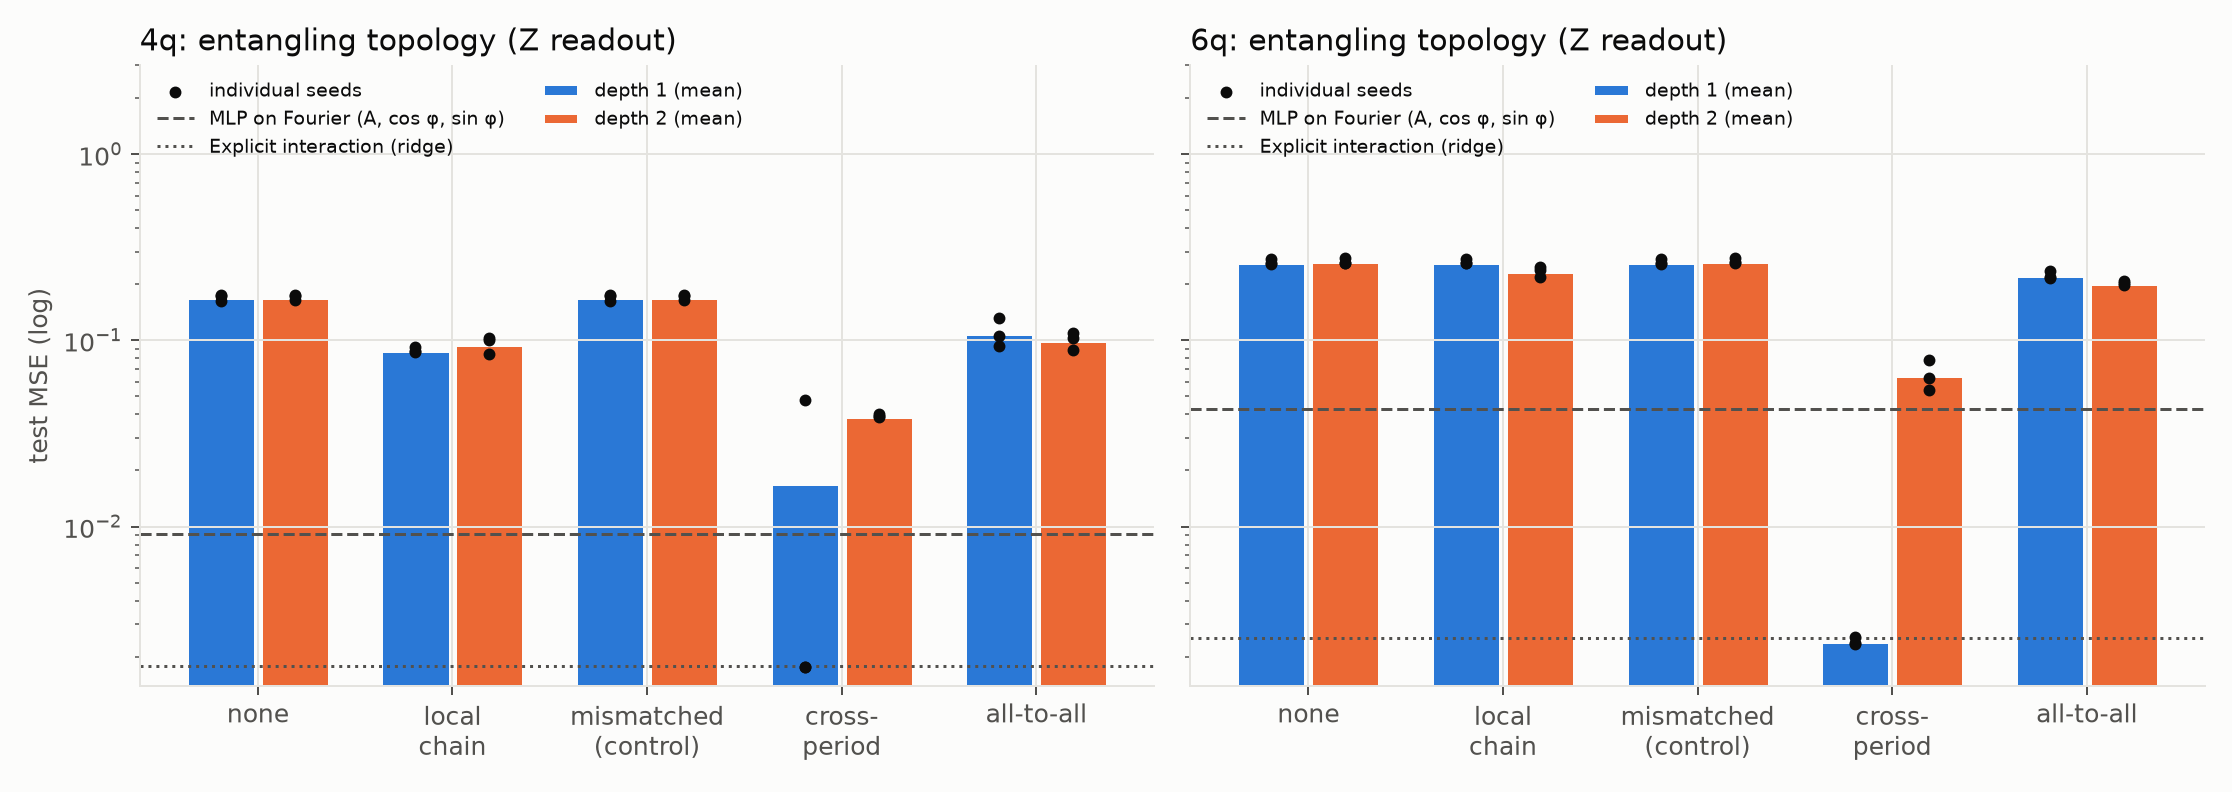
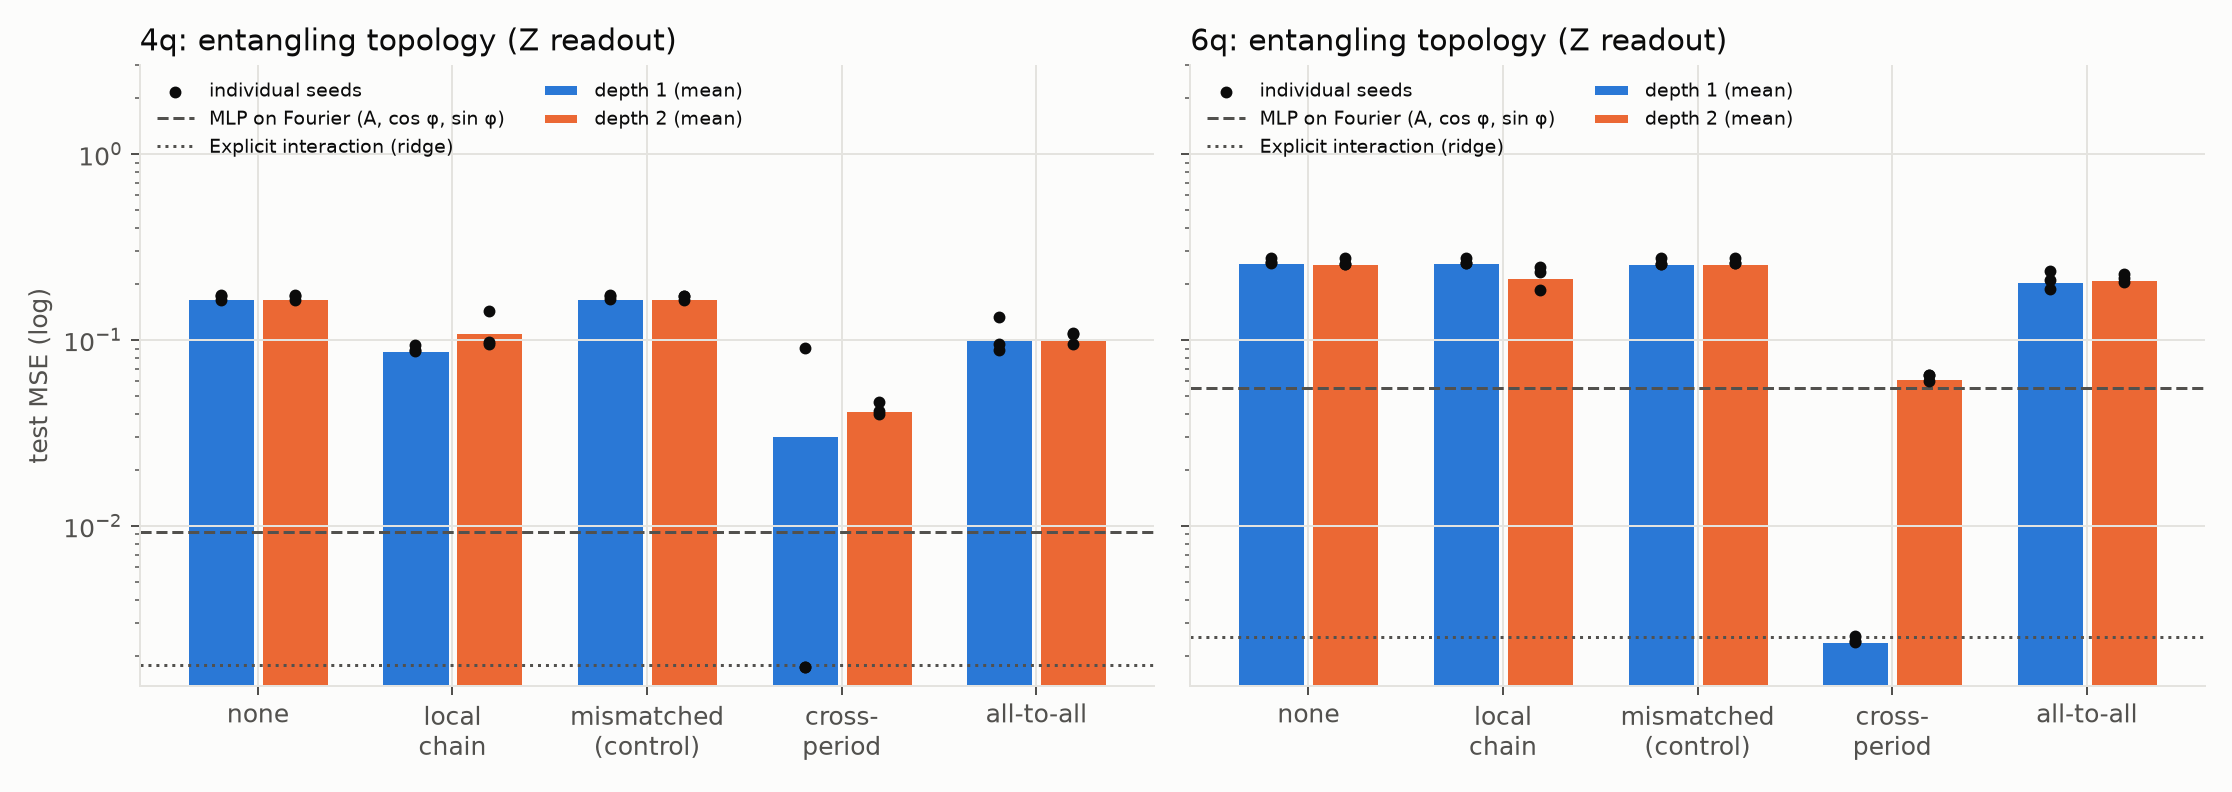
Module A: rerun S1/S2 on the shared encoder, update results and findings

diff --git a/docs/results_module_a.md b/docs/results_module_a.md
@@ -9,20 +9,20 @@ Target `y = A1·A2·cos(φ1 − φ2) + η`. Test MSE, mean ± std over 3 seeds; 
 | model | qubits | 2q gates | meas. settings | n=64 | n=256 | n=1024 | n=4096 |
 |---|---|---|---|---|---|---|---|
 | Fixed hybrid circuit + ridge | 2 | 0 | 9 | 0.0008 ± 0.0000 | 0.0006 ± 0.0000 | 0.0006 ± 0.0000 | 0.0006 ± 0.0000 |
-| Explicit interaction (ridge) | – | – | – | 0.0007 ± 0.0001 | 0.0006 ± 0.0000 | 0.0006 ± 0.0000 | 0.0006 ± 0.0000 |
-| Quantum phase circuit + classical A·A products / all_to_all / D=2 / z | 2 | 2 | 1 | 0.0007 ± 0.0001 | 0.0006 ± 0.0000 | 0.0006 ± 0.0000 | 0.0006 ± 0.0000 |
-| Quantum hybrid / none / D=1 / pauli2 | 2 | 0 | 9 | 0.0008 ± 0.0000 | 0.0006 ± 0.0000 | 0.0006 ± 0.0000 | 0.0006 ± 0.0000 |
-| MLP on Fourier (A, cos φ, sin φ) | – | – | – | 0.0223 ± 0.0037 | 0.0033 ± 0.0001 | 0.0019 ± 0.0006 | 0.0007 ± 0.0000 |
-| MLP on raw (A, φ) | – | – | – | 0.0149 ± 0.0028 | 0.0051 ± 0.0005 | 0.0013 ± 0.0003 | 0.0007 ± 0.0001 |
-| MLP + gated quantum fusion | 2 | 2 | 1 | 0.0189 ± 0.0025 | 0.0037 ± 0.0004 | 0.0014 ± 0.0001 | 0.0008 ± 0.0000 |
-| Quantum angle / all_to_all / D=2 / z | 4 | 12 | 1 | 0.0067 ± 0.0063 | 0.0012 ± 0.0002 | 0.0012 ± 0.0001 | 0.0008 ± 0.0002 |
-| Quantum hybrid / all_to_all / D=1 / z | 2 | 1 | 1 | 0.0328 ± 0.0185 | 0.0006 ± 0.0000 | 0.0006 ± 0.0000 | 0.0151 ± 0.0206 |
-| Quantum hybrid / all_to_all / D=2 / z | 2 | 2 | 1 | 0.0352 ± 0.0135 | 0.0204 ± 0.0003 | 0.0191 ± 0.0014 | 0.0185 ± 0.0007 |
-| Quantum hybrid / none / D=2 / pauli2 | 2 | 0 | 9 | 0.0328 ± 0.0007 | 0.0265 ± 0.0012 | 0.0241 ± 0.0005 | 0.0236 ± 0.0008 |
-| Quantum angle / all_to_all / D=1 / z | 4 | 6 | 1 | 0.0330 ± 0.0222 | 0.0157 ± 0.0200 | 0.0016 ± 0.0001 | 0.0311 ± 0.0209 |
-| Quantum phase circuit + classical A·A products / none / D=2 / pauli2 | 2 | 0 | 9 | 0.0650 ± 0.0030 | 0.0479 ± 0.0028 | 0.0469 ± 0.0007 | 0.0470 ± 0.0015 |
-| Quantum angle / none / D=2 / pauli2 | 4 | 0 | 21 | 0.0798 ± 0.0083 | 0.0631 ± 0.0014 | 0.0568 ± 0.0013 | 0.0563 ± 0.0026 |
-| Param-matched MLP | – | – | – | 0.0785 ± 0.0088 | 0.0609 ± 0.0007 | 0.0614 ± 0.0019 | 0.0604 ± 0.0021 |
+| Explicit interaction (ridge) | – | – | – | 0.0007 ± 0.0000 | 0.0006 ± 0.0000 | 0.0006 ± 0.0000 | 0.0006 ± 0.0000 |
+| Quantum phase circuit + classical A·A products / all_to_all / D=2 / z | 2 | 2 | 1 | 0.0036 ± 0.0026 | 0.0006 ± 0.0000 | 0.0021 ± 0.0022 | 0.0006 ± 0.0000 |
+| Quantum hybrid / all_to_all / D=1 / z | 2 | 1 | 1 | 0.0155 ± 0.0209 | 0.0284 ± 0.0197 | 0.0158 ± 0.0215 | 0.0006 ± 0.0000 |
+| Quantum hybrid / none / D=1 / pauli2 | 2 | 0 | 9 | 0.0009 ± 0.0001 | 0.0006 ± 0.0000 | 0.0006 ± 0.0000 | 0.0006 ± 0.0000 |
+| MLP on raw (A, φ) | – | – | – | 0.0147 ± 0.0037 | 0.0048 ± 0.0001 | 0.0019 ± 0.0007 | 0.0006 ± 0.0000 |
+| MLP on Fourier (A, cos φ, sin φ) | – | – | – | 0.0172 ± 0.0018 | 0.0037 ± 0.0002 | 0.0014 ± 0.0001 | 0.0006 ± 0.0000 |
+| MLP + gated quantum fusion | 2 | 2 | 1 | 0.0219 ± 0.0038 | 0.0035 ± 0.0005 | 0.0014 ± 0.0001 | 0.0008 ± 0.0000 |
+| Quantum angle / all_to_all / D=2 / z | 4 | 12 | 1 | 0.0055 ± 0.0012 | 0.0022 ± 0.0012 | 0.0015 ± 0.0005 | 0.0010 ± 0.0001 |
+| Quantum hybrid / all_to_all / D=2 / z | 2 | 2 | 1 | 0.0464 ± 0.0042 | 0.0229 ± 0.0013 | 0.0249 ± 0.0024 | 0.0202 ± 0.0015 |
+| Quantum hybrid / none / D=2 / pauli2 | 2 | 0 | 9 | 0.0426 ± 0.0067 | 0.0336 ± 0.0015 | 0.0294 ± 0.0005 | 0.0301 ± 0.0005 |
+| Quantum angle / all_to_all / D=1 / z | 4 | 6 | 1 | 0.0358 ± 0.0224 | 0.0171 ± 0.0199 | 0.0171 ± 0.0201 | 0.0325 ± 0.0209 |
+| Quantum phase circuit + classical A·A products / none / D=2 / pauli2 | 2 | 0 | 9 | 0.0626 ± 0.0050 | 0.0520 ± 0.0038 | 0.0461 ± 0.0013 | 0.0473 ± 0.0024 |
+| Quantum angle / none / D=2 / pauli2 | 4 | 0 | 21 | 0.0925 ± 0.0106 | 0.0640 ± 0.0023 | 0.0576 ± 0.0017 | 0.0563 ± 0.0017 |
+| Param-matched MLP | – | – | – | 0.0796 ± 0.0060 | 0.0606 ± 0.0003 | 0.0618 ± 0.0023 | 0.0611 ± 0.0034 |
 
 ![S1](figures/s1_encoding.png)
 
@@ -30,15 +30,15 @@ Target `y = A1·A2·cos(φ1 − φ2) + η`. Test MSE, mean ± std over 3 seeds; 
 
 | model | exact | 100 shots | 1000 shots | 10000 shots |
 |---|---|---|---|---|
-| Quantum angle / all_to_all / D=1 / z | 0.0311 | 0.0370 | 0.0298 | 0.0286 |
-| Quantum angle / all_to_all / D=2 / z | 0.0008 | 0.0252 | 0.0033 | 0.0011 |
-| Quantum angle / none / D=2 / pauli2 | 0.0563 | 0.0569 | 0.0537 | 0.0531 |
-| Quantum hybrid / all_to_all / D=1 / z | 0.0151 | 0.0309 | 0.0163 | 0.0150 |
-| Quantum hybrid / all_to_all / D=2 / z | 0.0185 | 0.0249 | 0.0192 | 0.0186 |
-| Quantum hybrid / none / D=1 / pauli2 | 0.0006 | 0.0375 | 0.0044 | 0.0009 |
-| Quantum hybrid / none / D=2 / pauli2 | 0.0236 | 0.0559 | 0.0254 | 0.0229 |
-| Quantum phase circuit + classical A·A products / all_to_all / D=2 / z | 0.0006 | 0.0028 | 0.0008 | 0.0006 |
-| Quantum phase circuit + classical A·A products / none / D=2 / pauli2 | 0.0470 | 0.0454 | 0.0428 | 0.0431 |
+| Quantum angle / all_to_all / D=1 / z | 0.0325 | 0.0375 | 0.0311 | 0.0303 |
+| Quantum angle / all_to_all / D=2 / z | 0.0010 | 0.0312 | 0.0045 | 0.0014 |
+| Quantum angle / none / D=2 / pauli2 | 0.0563 | 0.0567 | 0.0530 | 0.0526 |
+| Quantum hybrid / all_to_all / D=1 / z | 0.0006 | 0.0093 | 0.0015 | 0.0006 |
+| Quantum hybrid / all_to_all / D=2 / z | 0.0202 | 0.0266 | 0.0208 | 0.0205 |
+| Quantum hybrid / none / D=1 / pauli2 | 0.0006 | 0.0272 | 0.0031 | 0.0008 |
+| Quantum hybrid / none / D=2 / pauli2 | 0.0301 | 0.0553 | 0.0307 | 0.0280 |
+| Quantum phase circuit + classical A·A products / all_to_all / D=2 / z | 0.0006 | 0.0043 | 0.0009 | 0.0006 |
+| Quantum phase circuit + classical A·A products / none / D=2 / pauli2 | 0.0473 | 0.0443 | 0.0432 | 0.0431 |
 
 ## S2 — cross-period interaction (topology comparison)
 
@@ -50,39 +50,39 @@ One qubit per period patch, hybrid encoding, readout restricted to single-qubit 
 |---|---|---|---|---|---|---|
 | Explicit interaction (ridge) | – | – | – | – | 0.0017 | 0.0018 ± 0.0000 |
 | Quantum hybrid / none / D=1 / pauli2 | 1 | 0 | 4 | 21 | 0.0017 | 0.0018 ± 0.0001 |
-| MLP on raw (A, φ) | – | – | – | – | 0.0025 | 0.0041 ± 0.0000 |
-| MLP on Fourier (A, cos φ, sin φ) | – | – | – | – | 0.0041 | 0.0091 ± 0.0006 |
-| Quantum hybrid / cross_period / D=1 / z | 1 | 2 | 5 | 1 | 0.0154 | 0.0170 ± 0.0216 |
-| Quantum hybrid / cross_period / D=2 / z | 2 | 4 | 9 | 1 | 0.0375 | 0.0395 ± 0.0006 |
-| Quantum hybrid / local / D=1 / z | 1 | 3 | 7 | 1 | 0.0810 | 0.0887 ± 0.0027 |
-| Quantum hybrid / local / D=2 / z | 2 | 6 | 12 | 1 | 0.0849 | 0.0959 ± 0.0084 |
-| Quantum hybrid / all_to_all / D=2 / z | 2 | 12 | 16 | 1 | 0.0946 | 0.1004 ± 0.0084 |
-| Quantum hybrid / all_to_all / D=1 / z | 1 | 6 | 9 | 1 | 0.1049 | 0.1097 ± 0.0159 |
-| Param-matched MLP | – | – | – | – | 0.1415 | 0.1447 ± 0.0032 |
-| Quantum hybrid / mismatched / D=1 / z | 1 | 2 | 5 | 1 | 0.1699 | 0.1703 ± 0.0052 |
-| Quantum hybrid / mismatched / D=2 / z | 2 | 4 | 9 | 1 | 0.1691 | 0.1704 ± 0.0043 |
-| Quantum hybrid / none / D=1 / z | 1 | 0 | 4 | 1 | 0.1707 | 0.1708 ± 0.0054 |
-| Quantum hybrid / none / D=2 / z | 2 | 0 | 7 | 1 | 0.1709 | 0.1710 ± 0.0041 |
+| MLP on raw (A, φ) | – | – | – | – | 0.0021 | 0.0041 ± 0.0003 |
+| MLP on Fourier (A, cos φ, sin φ) | – | – | – | – | 0.0039 | 0.0093 ± 0.0009 |
+| Quantum hybrid / cross_period / D=1 / z | 1 | 2 | 5 | 1 | 0.0280 | 0.0313 ± 0.0418 |
+| Quantum hybrid / cross_period / D=2 / z | 2 | 4 | 9 | 1 | 0.0401 | 0.0427 ± 0.0028 |
+| Quantum hybrid / local / D=1 / z | 1 | 3 | 7 | 1 | 0.0823 | 0.0898 ± 0.0030 |
+| Quantum hybrid / all_to_all / D=2 / z | 2 | 12 | 16 | 1 | 0.0940 | 0.1042 ± 0.0061 |
+| Quantum hybrid / all_to_all / D=1 / z | 1 | 6 | 9 | 1 | 0.1006 | 0.1052 ± 0.0200 |
+| Quantum hybrid / local / D=2 / z | 2 | 6 | 12 | 1 | 0.1025 | 0.1116 ± 0.0221 |
+| Param-matched MLP | – | – | – | – | 0.1400 | 0.1483 ± 0.0072 |
+| Quantum hybrid / none / D=1 / z | 1 | 0 | 4 | 1 | 0.1701 | 0.1700 ± 0.0048 |
+| Quantum hybrid / mismatched / D=2 / z | 2 | 4 | 9 | 1 | 0.1695 | 0.1701 ± 0.0040 |
+| Quantum hybrid / none / D=2 / z | 2 | 0 | 7 | 1 | 0.1697 | 0.1701 ± 0.0049 |
+| Quantum hybrid / mismatched / D=1 / z | 1 | 2 | 5 | 1 | 0.1699 | 0.1708 ± 0.0037 |
 
 ### 6q
 
 | model | depth | 2q gates | circuit depth | meas. settings | train MSE | test MSE |
 |---|---|---|---|---|---|---|
-| Quantum hybrid / cross_period / D=1 / z | 1 | 3 | 5 | 1 | 0.0024 | 0.0024 ± 0.0001 |
+| Quantum hybrid / cross_period / D=1 / z | 1 | 3 | 5 | 1 | 0.0025 | 0.0024 ± 0.0001 |
 | Explicit interaction (ridge) | – | – | – | – | 0.0023 | 0.0025 ± 0.0001 |
-| Quantum hybrid / none / D=1 / pauli2 | 1 | 0 | 4 | 33 | 0.0024 | 0.0026 ± 0.0001 |
-| MLP on raw (A, φ) | – | – | – | – | 0.0108 | 0.0256 ± 0.0056 |
-| MLP on Fourier (A, cos φ, sin φ) | – | – | – | – | 0.0081 | 0.0429 ± 0.0051 |
-| Quantum hybrid / cross_period / D=2 / z | 2 | 6 | 9 | 1 | 0.0590 | 0.0650 ± 0.0103 |
-| Quantum hybrid / all_to_all / D=2 / z | 2 | 30 | 22 | 1 | 0.1884 | 0.2036 ± 0.0039 |
-| Quantum hybrid / all_to_all / D=1 / z | 1 | 15 | 13 | 1 | 0.2159 | 0.2239 ± 0.0092 |
-| Quantum hybrid / local / D=2 / z | 2 | 10 | 14 | 1 | 0.2124 | 0.2354 ± 0.0118 |
-| Param-matched MLP | – | – | – | – | 0.2312 | 0.2377 ± 0.0082 |
-| Quantum hybrid / mismatched / D=1 / z | 1 | 3 | 5 | 1 | 0.2581 | 0.2640 ± 0.0077 |
-| Quantum hybrid / none / D=1 / z | 1 | 0 | 4 | 1 | 0.2603 | 0.2641 ± 0.0078 |
-| Quantum hybrid / local / D=1 / z | 1 | 5 | 9 | 1 | 0.2581 | 0.2652 ± 0.0067 |
-| Quantum hybrid / none / D=2 / z | 2 | 0 | 7 | 1 | 0.2604 | 0.2658 ± 0.0083 |
-| Quantum hybrid / mismatched / D=2 / z | 2 | 6 | 9 | 1 | 0.2600 | 0.2666 ± 0.0073 |
+| Quantum hybrid / none / D=1 / pauli2 | 1 | 0 | 4 | 33 | 0.0023 | 0.0026 ± 0.0001 |
+| MLP on raw (A, φ) | – | – | – | – | 0.0120 | 0.0278 ± 0.0071 |
+| MLP on Fourier (A, cos φ, sin φ) | – | – | – | – | 0.0122 | 0.0550 ± 0.0021 |
+| Quantum hybrid / cross_period / D=2 / z | 2 | 6 | 9 | 1 | 0.0560 | 0.0635 ± 0.0021 |
+| Quantum hybrid / all_to_all / D=1 / z | 1 | 15 | 13 | 1 | 0.2007 | 0.2109 ± 0.0199 |
+| Quantum hybrid / all_to_all / D=2 / z | 2 | 30 | 22 | 1 | 0.2057 | 0.2162 ± 0.0083 |
+| Quantum hybrid / local / D=2 / z | 2 | 10 | 14 | 1 | 0.2073 | 0.2220 ± 0.0269 |
+| Param-matched MLP | – | – | – | – | 0.2285 | 0.2382 ± 0.0113 |
+| Quantum hybrid / none / D=2 / z | 2 | 0 | 7 | 1 | 0.2583 | 0.2635 ± 0.0083 |
+| Quantum hybrid / mismatched / D=1 / z | 1 | 3 | 5 | 1 | 0.2593 | 0.2636 ± 0.0082 |
+| Quantum hybrid / mismatched / D=2 / z | 2 | 6 | 9 | 1 | 0.2571 | 0.2642 ± 0.0084 |
+| Quantum hybrid / none / D=1 / z | 1 | 0 | 4 | 1 | 0.2611 | 0.2651 ± 0.0070 |
+| Quantum hybrid / local / D=1 / z | 1 | 5 | 9 | 1 | 0.2592 | 0.2657 ± 0.0077 |
 
 ![S2](figures/s2_topology.png)
 

diff --git a/docs/module_a_findings.md b/docs/module_a_findings.md
@@ -3,11 +3,13 @@
 All numbers are test MSE (mean over 3 seeds unless noted). They come from
 [results_module_a.md](results_module_a.md), which `make_plots.py` regenerates from the run
 records. Simulator: PennyLane `default.qubit`, exact expectations unless shots are stated.
+Features come from the shared `StructuredSequenceEncoder` (`qss.classical.encoder`), fitted on
+the training split only.
 
 ## What is built (M1)
 
-- An end-to-end pipeline: noisy series → DFT amplitude/phase patch features → quantum
-  interaction backend → prediction.
+- An end-to-end pipeline: noisy series → shared `StructuredSequenceEncoder` (amplitude/phase per
+  patch) → quantum interaction backend → prediction.
 - `PennyLaneInteractionBackend` implements the shared `InteractionBackend` protocol. It supports
   finite shots and any PennyLane device.
 - Every run logs qubits, circuit depth, two-qubit gates, measurement settings, circuit executions
@@ -17,18 +19,18 @@ records. Simulator: PennyLane `default.qubit`, exact expectations unless shots a
 
 - **The hybrid encoding RY(arcsin A)·RZ(φ) has the right inductive bias.**
   - 2 qubits, one re-uploading layer and a Pauli-2 readout reach the explicit-interaction oracle
-    at every training size: 0.0008 at n=64 and 0.0006 at n≥256.
+    at every training size: 0.0009 at n=64 and 0.0006 at n≥256.
   - Generic MLPs need about 4096 samples to get there. At n=64 they score 0.015 (raw) and
-    0.022 (Fourier).
+    0.017 (Fourier).
 - **The gain comes from the feature map, not from training or from anything uniquely quantum.**
   - An untrained random hybrid circuit with a ridge readout is just as good.
   - The reason is analytic: ⟨X1X2⟩ + ⟨Y1Y2⟩ = sinθ1·sinθ2·cos(φ1 − φ2) exactly (unit test
     `test_hybrid_encoding_gives_target_analytically`).
   - A classical model given the same features ([A·cos φ, A·sin φ] and their products) matches it.
-- **Angle encoding works but costs more.** It needs 4 qubits and 6–12 CZ gates, and reaches
-  0.0008–0.0012 at n≥256.
+- **Angle encoding works but costs more.** It needs 4 qubits and 12 CZ gates (D=2), and reaches
+  0.0010–0.0022 at n≥256.
 - **More re-uploading is not better here.**
-  - With hybrid encoding, D=2 gives 0.019–0.024, against 0.0006 for D=1.
+  - With hybrid encoding, D=2 gives 0.020–0.030, against 0.0006 for D=1.
   - A two-layer circuit does not contain the one-layer function. The second data upload rotates
     a state that is already data-dependent.
 - **Z-readout + CZ variants are seed-sensitive.** Some seeds get stuck in local minima, so the
@@ -36,7 +38,7 @@ records. Simulator: PennyLane `default.qubit`, exact expectations unless shots a
 - **The phase-only encoding row is not an encoding comparison.** Its head is given classical
   A_i·A_j products, so it is labelled separately.
 - **Gated fusion with an MLP backbone adds nothing measurable on S1.** It scores 0.0008 at
-  n=4096, the same as the MLPs.
+  n=4096, against 0.0006 for the MLPs.
 
 ## S2: cross-period interaction, `y = Σ A_k·A_{k+s}·cos(φ_k − φ_{k+s})`
 
@@ -44,10 +46,10 @@ Setup: one qubit per period patch, readout restricted to single-qubit ⟨Z⟩, a
 of trainable parameters for every topology.
 
 - **The cross-period topology is the only entangled circuit that learns the task.**
-  - 6 qubits, D=1: 0.0024, equal to the explicit oracle (0.0025) and 10–18× better than the MLPs
-    (0.026 raw, 0.043 Fourier).
-  - 4 qubits, D=1: two of three seeds reach 0.0018 (oracle 0.0018). One seed stopped early at
-    0.048.
+  - 6 qubits, D=1: 0.0024, equal to the explicit oracle (0.0025) and 10–23× better than the MLPs
+    (0.028 raw, 0.055 Fourier).
+  - 4 qubits, D=1: two of three seeds reach 0.0017 (oracle 0.0018). One seed stopped early at
+    0.090 (fixed by random restarts in the follow-up experiment branch).
 - **Structure matters, not gate count.**
   - The mismatched control has the same number of CZ gates as cross-period, but on the wrong
     pairs (0,1), (2,3), and so on.
@@ -61,7 +63,7 @@ of trainable parameters for every topology.
 
 | model | exact | 10 000 shots | 1000 shots | 100 shots |
 |---|---|---|---|---|
-| angle, Z readout + CZ | 0.0008 | 0.0011 | 0.0033 | 0.025 |
+| angle, Z readout + CZ | 0.0010 | 0.0014 | 0.0045 | 0.031 |
 
 Results for the other models are in the results file.
 
